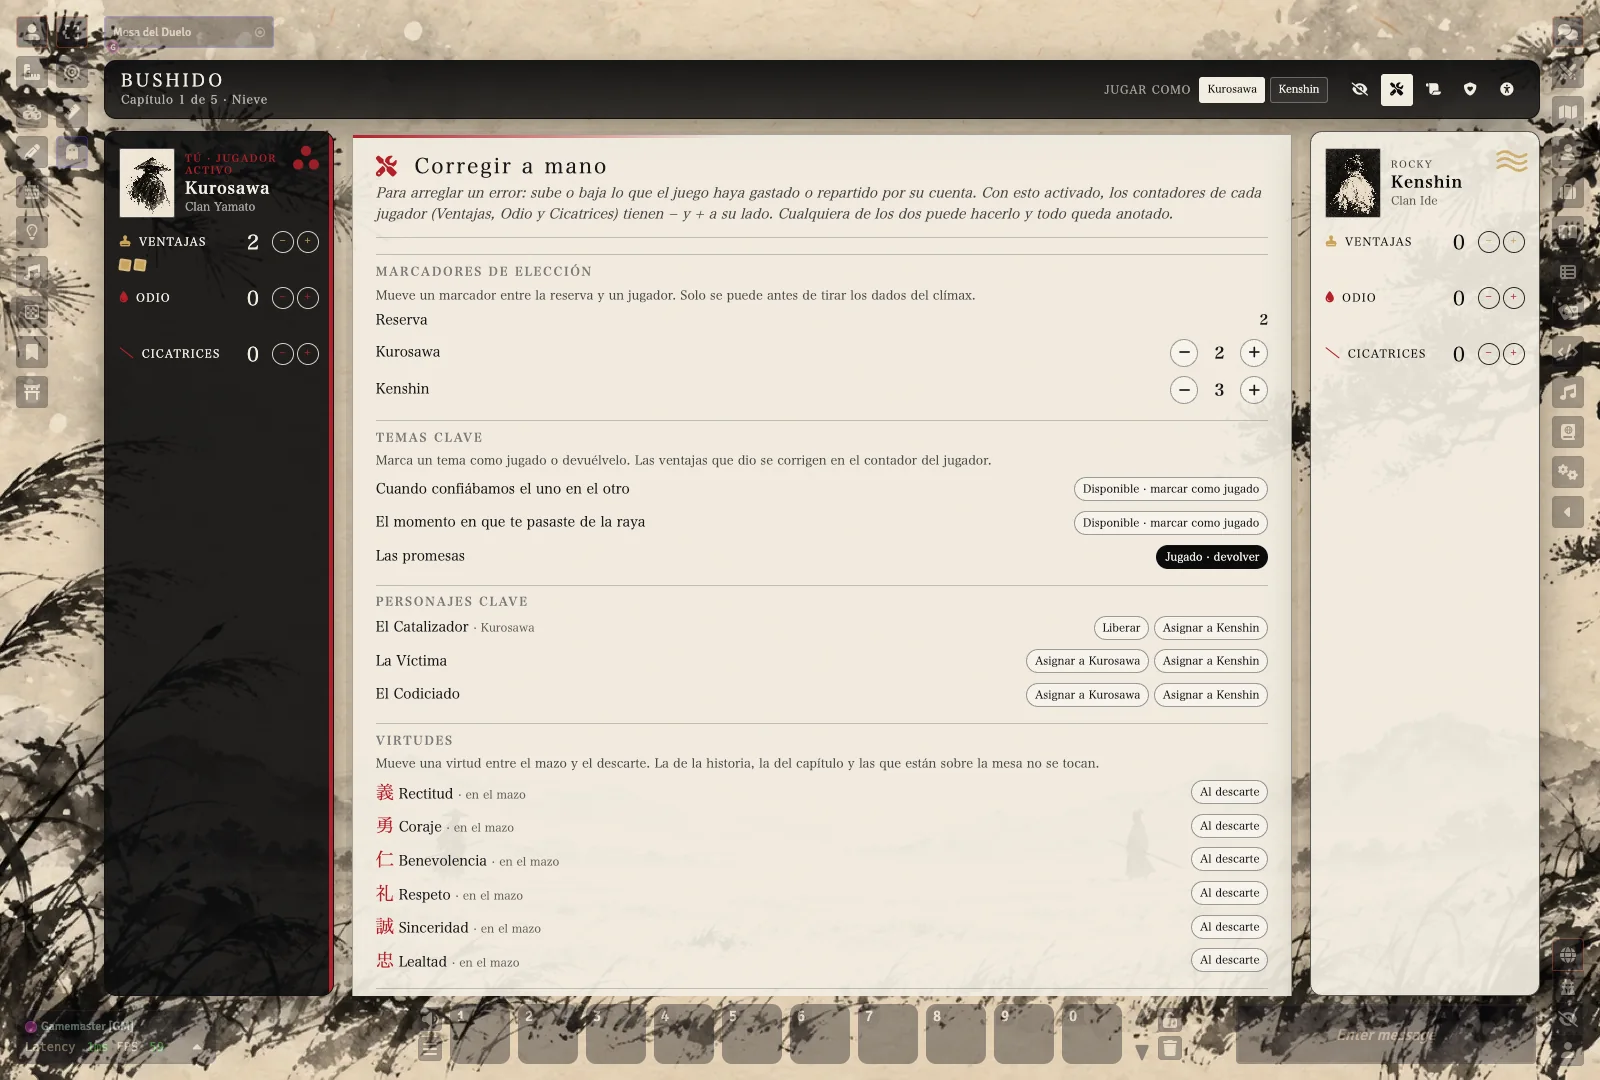
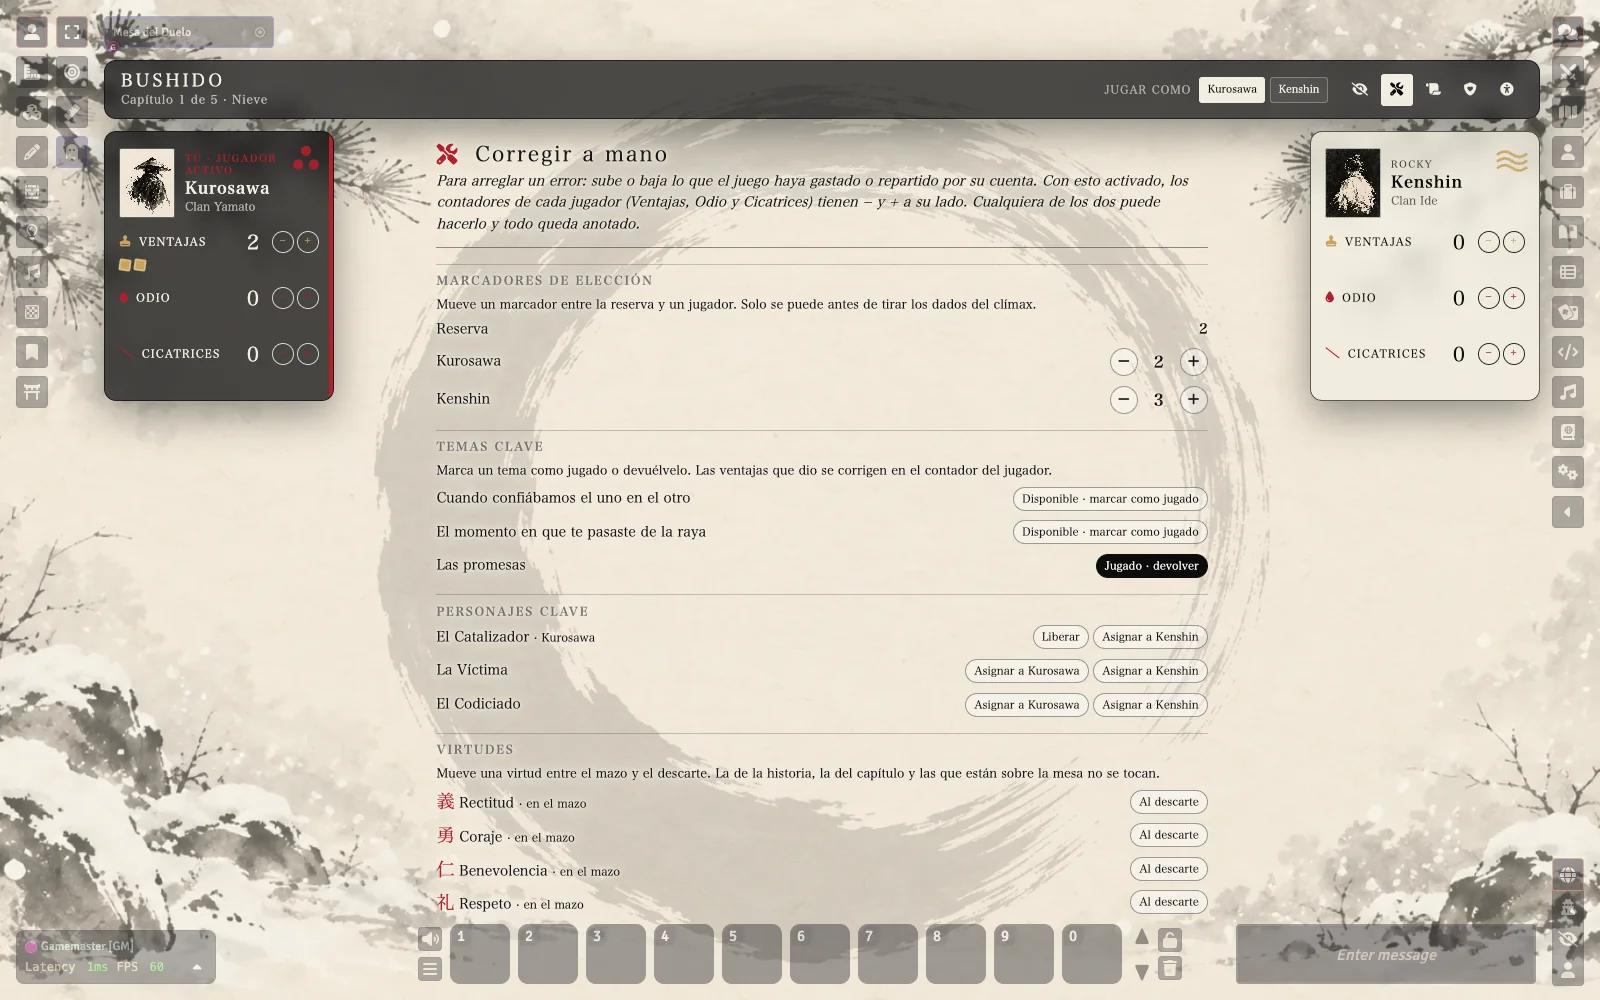
docs: capturas nuevas con el diseño final (claro, oscuro, corrección, Gran Final)

diff --git a/docs/index.html b/docs/index.html
@@ -17,6 +17,7 @@ img{width:100%;border:1px solid #0004;box-shadow:0 8px 24px #0003;margin:1.2rem 
 <img src="img/mesa-capitulo.webp" alt="La Mesa del Duelo a pantalla completa, en pleno capítulo">
 <h2>Para dos, sin Director</h2><p>Cada jugador es un samurái. Se abre con el duelo final y se cuenta, en flashbacks, cómo llegasteis hasta ahí. Siete marcadores por capítulo, dados, ventajas, odio y cicatrices… y un Gran Final que se resuelve a un golpe.</p>
 <h2>La Mesa, integrada en la escena</h2><p>La Mesa del Duelo ya no es una ventana: es una capa sobre la escena. El claro, el clima y el Gran Final son el fondo de toda la pantalla y los controles de Foundry siguen donde siempre. Se oculta con el ojo o con <code>Alt+U</code> para ver solo la escena, y se recupera con una pastilla. Si prefieres la ventana de siempre, está en <em>Configurar ajustes → La Mesa</em>.</p><img src="img/mesa-oculta.webp" alt="La Mesa oculta: solo la escena y una pastilla para recuperarla">
+<h2>Modo oscuro</h2><p>Pensado para quien tiene sensibilidad a la luz: la base es tinta, el arte de fondo se atenúa y no hay blancos que deslumbren. El texto sigue siendo legible.</p><img src="img/mesa-oscura.webp" alt="La Mesa en modo oscuro">
 <h2>Corregir a mano</h2><p>Los automatismos gastan y reparten por su cuenta. Si algo sale mal en partida, la llave inglesa de la cabecera pone <strong>− y +</strong> junto a las Ventajas, el Odio y las Cicatrices, y abre un panel para mover marcadores de la reserva, devolver un tema o un personaje clave, mover virtudes y cambiar los capítulos previstos. Lo pueden hacer los dos jugadores, queda anotado y nunca baja de cero.</p><img src="img/corregir-a-mano.webp" alt="El panel Corregir a mano">
 <h2>Qué incluye</h2><ul><li>Mesa del Duelo con asientos simétricos y la partida entera guiada.</li><li>Gran Final en blanco y negro, con apuesta a ciegas y golpe mortal.</li><li>Crónica autogenerada de la historia jugada.</li><li>Siete climas, sonido sintetizado y arte sumi-e original.</li><li>Accesibilidad, Pausa/Velo/Tarjeta X, español e inglés.</li></ul>
 <img src="img/gran-final.webp" alt="El Gran Final, en blanco y negro con barras de cine">

diff --git a/README.md b/README.md
@@ -12,6 +12,9 @@ Sistema **no oficial** para Foundry VTT de ***Un momento único***, de Tobie Aba
 - **A pantalla completa**: la Mesa se integra en la escena (sin ventana): el claro, el clima y el Gran Final son el fondo de toda la pantalla. Se oculta con el ojo, con `Alt+U` o con la herramienta de la barra de escena, y se recupera con una pastilla. En *Configurar ajustes → La Mesa* puedes volver a la ventana de siempre.
 
   ![La Mesa oculta: solo la escena y una pastilla para recuperarla](docs/img/mesa-oculta.webp)
+- **Modo oscuro** pensado para quien tiene sensibilidad a la luz: la base es tinta y el arte de fondo se atenúa, sin blancos que deslumbren, y el texto sigue legible.
+
+  ![La Mesa en modo oscuro](docs/img/mesa-oscura.webp)
 - **Corregir a mano**: los automatismos gastan y reparten por su cuenta (temas, personajes, marcadores, ventajas…). Si algo sale mal, el botón de la llave inglesa de la cabecera pone **− y +** junto a las Ventajas, el Odio y las Cicatrices de cada jugador y abre un panel para mover marcadores de la reserva, devolver un tema o un personaje clave, mover virtudes entre el mazo y el descarte y cambiar los capítulos previstos. Lo pueden hacer los dos jugadores y todo queda anotado («Corrección manual»); nunca baja de cero.
 
   ![El panel «Corregir a mano»](docs/img/corregir-a-mano.webp)
